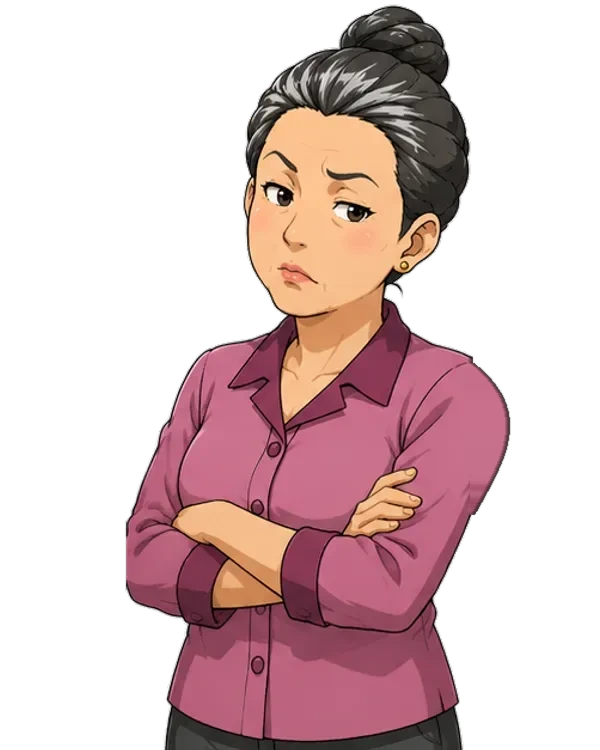
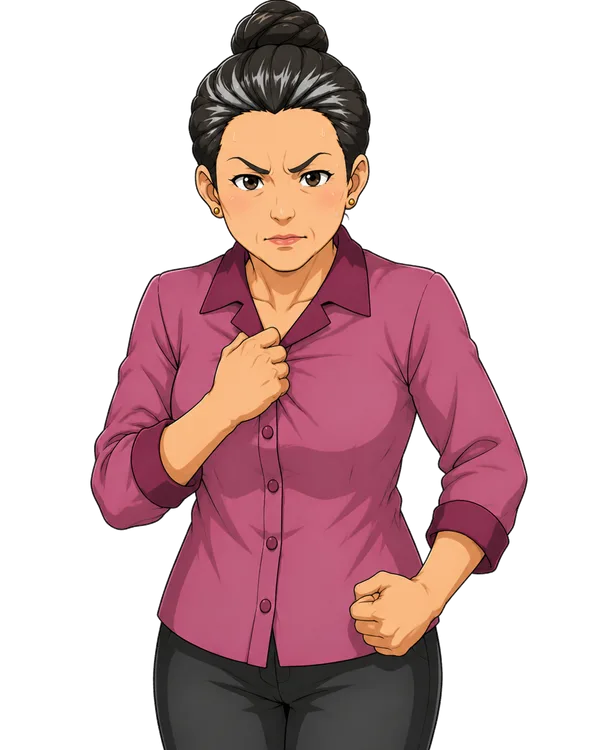
เพิ่ม/อัปเดตรูปตัวละคร: happy pose guard_dam/helper_oat + อัปเดตชุดป้าแก้ว (#82)
* เพิ่มรูป happy pose ให้ลุงดำ รปภ. (guard_dam) และพี่โอ๊ต (helper_oat)

ทั้งสองตัวละครมี pose idle/panic/stern/talk ครบแล้ว แต่ยังไม่มี happy —
ตอนนี้ครบทั้ง 5 pose ตามชุดที่เกมรองรับ (ประมวลผลจากรูปที่ผู้ใช้ generate มา:
ตัดพื้นหลังขาวออก ครอปตามสัดส่วน 600x750 ให้เข้าชุดกับ pose อื่นของตัวละครเดียวกัน)

ตรวจแล้วว่าไฟล์โหลดผ่าน dev server ปกติ (200, image/webp) และ probe ผ่าน
CharacterSprite mechanism ได้ขนาดถูกต้อง (600x750) — ยังไม่มีบทที่ผูก pose
happy กับสองตัวละครนี้โดยตรงในตอนนี้ (มีแต่ dispatcher_prom), งานนี้เป็นการ
เติมชุด asset ให้ครบสำหรับใช้ในบทใหม่ในอนาคต

Claude-Session: https://claude.ai/code/session_0148CDUraofZfx6gSkjrSmqv

* อัปเดตชุดรูปป้าแก้ว (aunt_kaew) ครบ 5 pose พร้อม panic แยกจาก talk

ผู้ใช้ generate รูปชุดใหม่มาแทนที่ทั้ง 5 pose (idle/talk/panic/stern/happy)
ของป้าแก้ว — คราวนี้ panic เป็นท่าตะโกนกุมแก้มแยกออกมาชัดเจนจากท่า talk
(ก่อนหน้านี้ระบบตั้ง poseImage: { panic: 'talk' } ไว้เพราะยังไม่มีรูป panic
โดยเฉพาะ) จึงลบ override นั้นออก ให้ระบบใช้ panic.webp ตามปกติ

ตัดพื้นหลังขาวออกด้วย flood-fill จากขอบภาพ + เพิ่มการลบ "รูตกขาว" ที่ไม่ติดขอบ
(ช่องว่างระหว่างแขนที่งอกับลำตัว เช่นท่า stern ที่กำมือจับปกเสื้อ) โดยกันพื้นที่
ใบหน้าไว้ไม่ให้กระทบตา/ปาก ครอปตามสัดส่วน 600x750 ให้เข้าชุดเดิม แปลงเป็น WebP

Claude-Session: https://claude.ai/code/session_0148CDUraofZfx6gSkjrSmqv

---------

diff --git a/files/jia-online/src/game/characters.js b/files/jia-online/src/game/characters.js
@@ -68,9 +68,6 @@ export const CHARACTERS = {
     name: 'ป้าแก้ว',
     role: 'คนเห็นเหตุการณ์',
     plate: ['#C86FA0', '#8E3D6C'],
-    // ท่า panic ของป้าแก้ว: ไม่ใช้รูป panic.webp — ให้ไปหยิบรูปท่า talk มาแสดงแทน
-    // (ท่าตะโกนเหมือนกัน) engine ยังส่ง pose 'panic' ตามเดิม เอฟเฟกต์จอแดงจึงยังทำงาน
-    poseImage: { panic: 'talk' },
     placeholder(pose) {
       const skin = '#F6CDA8', dress = '#C86FA0', dressD = '#9A4A78', hair = '#4A3A3F';
       return `<svg viewBox="0 0 200 250" xmlns="http://www.w3.org/2000/svg">
